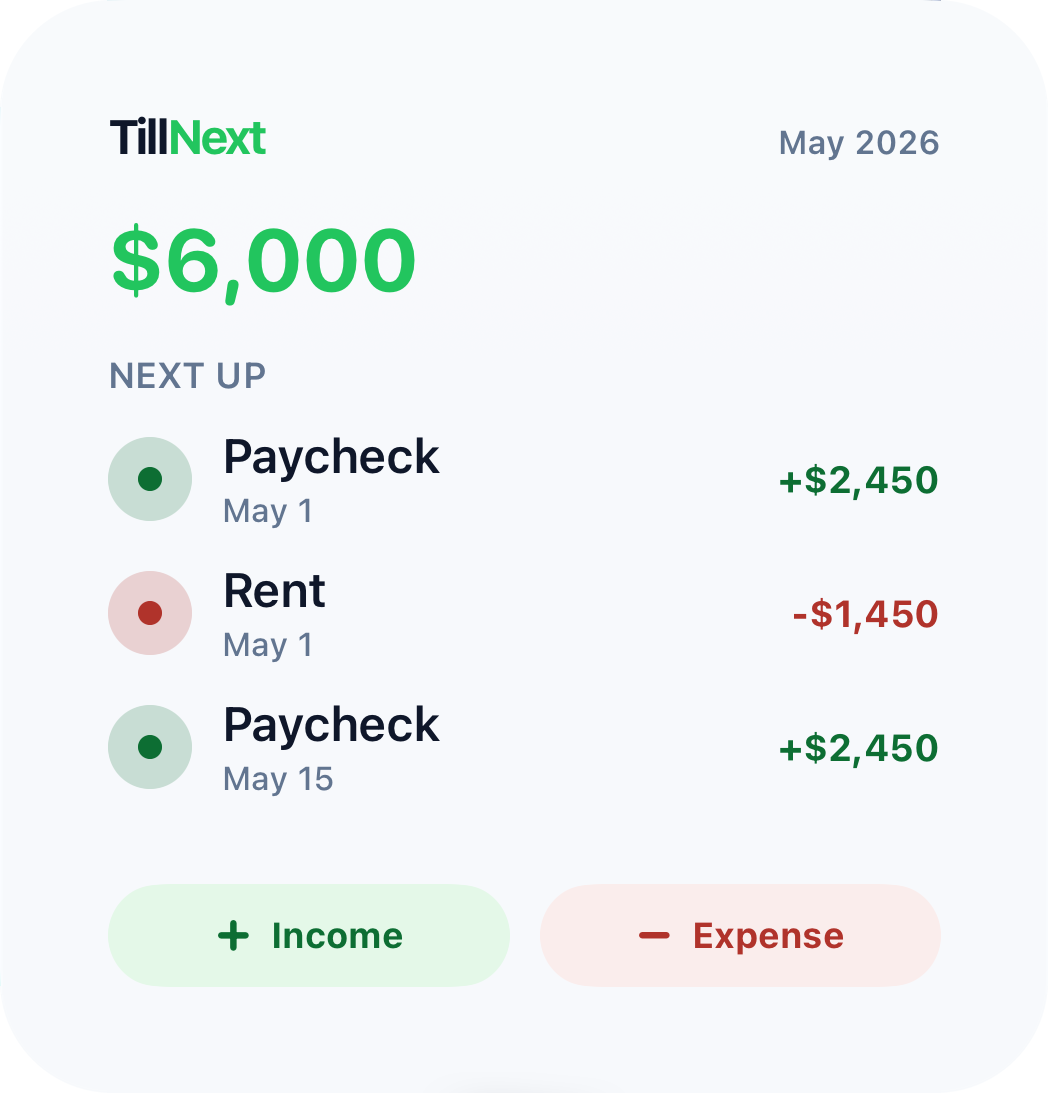
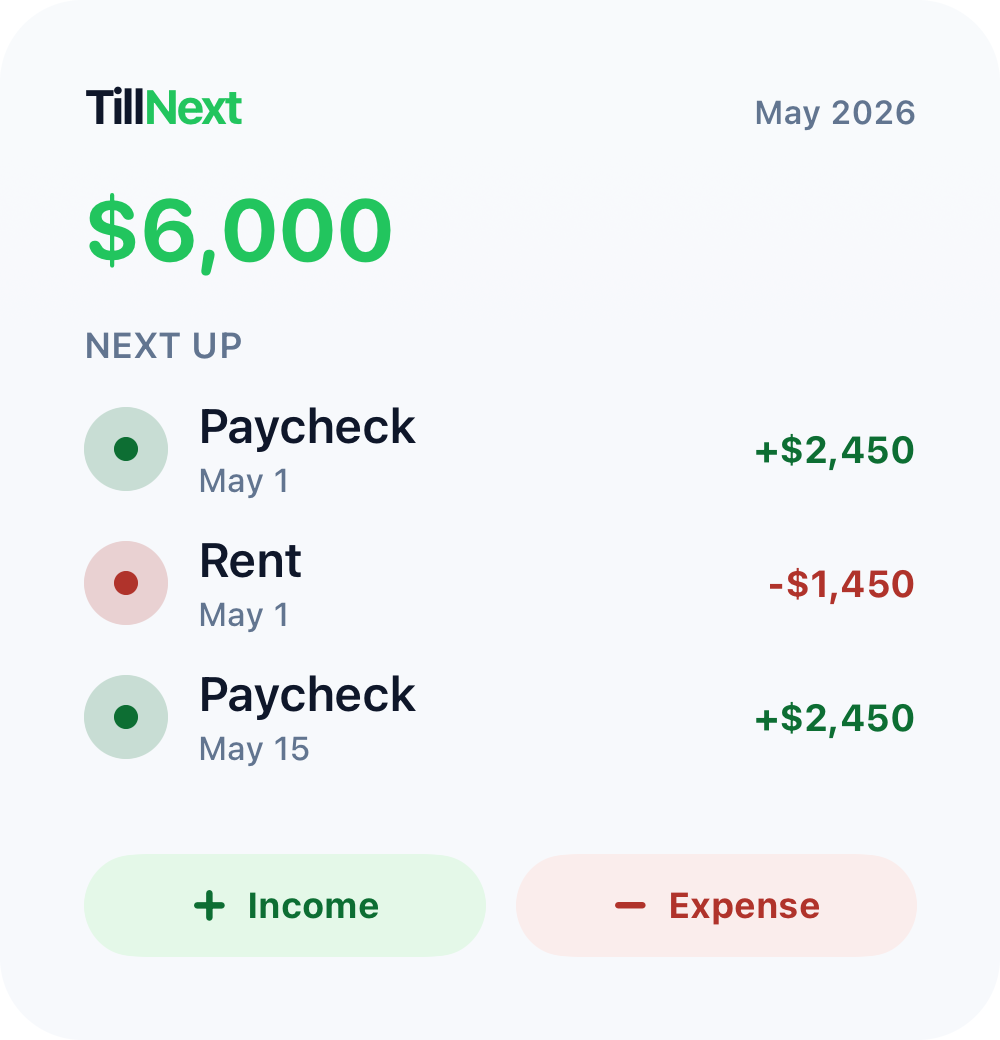
Polish widget showcase stack

diff --git a/styles.css b/styles.css
@@ -395,6 +395,20 @@ img {
   transform: translateX(-50%) rotate(-1deg);
 }
 
+.widget-small-shot {
+  position: absolute;
+  right: 0;
+  bottom: 1%;
+  z-index: 4;
+  width: min(44%, 300px);
+  height: auto;
+  margin: 0;
+  object-fit: cover;
+  border-radius: 18px;
+  filter: drop-shadow(0 18px 34px rgba(0, 0, 0, 0.25));
+  transform: rotate(4deg);
+}
+
 .example-grid {
   display: grid;
   grid-template-columns: repeat(2, minmax(0, 1fr));
@@ -593,6 +607,12 @@ code {
     width: min(72%, 430px);
   }
 
+  .widget-small-shot {
+    right: 2%;
+    bottom: 0;
+    width: min(44%, 270px);
+  }
+
   .example-grid {
     grid-template-columns: 1fr;
   }
@@ -710,5 +730,12 @@ code {
     bottom: 3%;
     width: min(88%, 340px);
     border-radius: 18px;
+  }
+
+  .widget-small-shot {
+    right: -1%;
+    bottom: 1%;
+    width: min(64%, 230px);
+    border-radius: 14px;
   }
 }

diff --git a/index.html b/index.html
@@ -113,6 +113,10 @@
             <source srcset="assets/widget-home-dark.png" media="(prefers-color-scheme: dark)">
             <img class="widget-shot" src="assets/widget-home.png" alt="TillNext Home Screen widgets showing quick-add buttons and the Till Next amount.">
           </picture>
+          <picture>
+            <source srcset="assets/widget-compact-dark.png" media="(prefers-color-scheme: dark)">
+            <img class="widget-small-shot" src="assets/widget-compact.png" alt="Smaller TillNext Home Screen widget with the Till Next amount and quick-add buttons.">
+          </picture>
         </div>
       </section>
 
